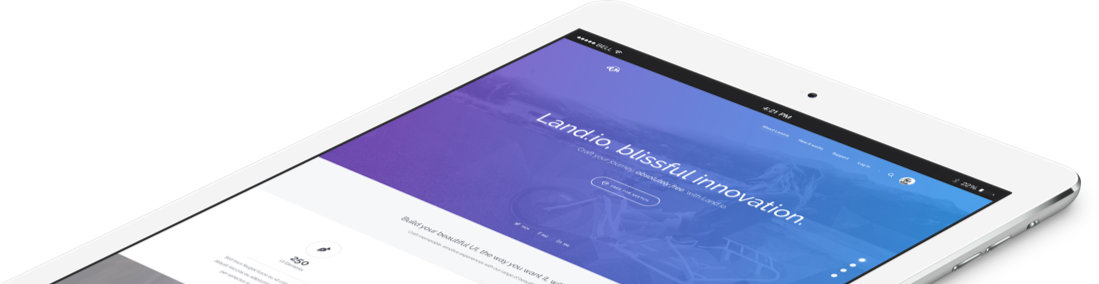
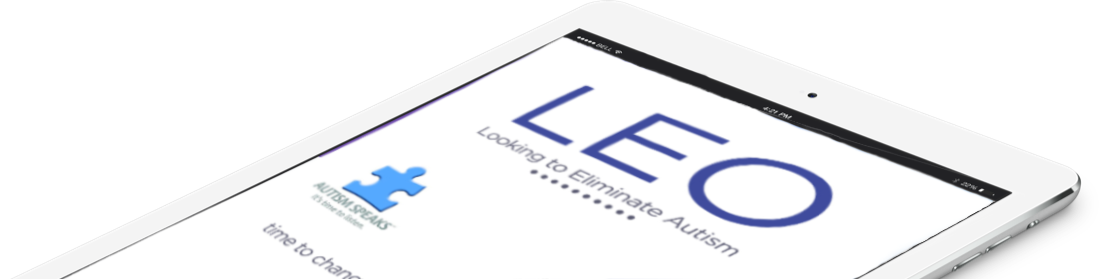
Update Details
Add Icons, Headers etc.
Change CSS & Index

diff --git a/index.html b/index.html
@@ -32,16 +32,27 @@
   </head>
 
   <body>
-
+  
+<!--    Add FB SDK -->
+<div id="fb-root"></div>
+<script>(function(d, s, id) {
+  var js, fjs = d.getElementsByTagName(s)[0];
+  if (d.getElementById(id)) return;
+  js = d.createElement(s); js.id = id;
+  js.src = "//connect.facebook.net/en_GB/sdk.js#xfbml=1&version=v2.8";
+  fjs.parentNode.insertBefore(js, fjs);
+}(document, 'script', 'facebook-jssdk'));</script>
+   
     <!-- Navigation
     ================================================== -->
 
+   
     <nav class="navbar navbar-dark bg-inverse bg-inverse-custom navbar-fixed-top">
       <div class="container">
-        <a class="navbar-brand" href="inde">
-          <span class="icon-logo"><a href="index.html" target="_self"><img src="img/favicon/android-chrome-96.png" alt="Pegasus Logo"/></a></span>
-          <span class="sr-only">LEO.io</span>
-        </a>
+        <a class="navbar-brand" href="index.html" target="_self">
+         <img src="img/favicon/android-chrome-72.png" alt="Pegasus Logo"/></a>
+          <span class="sr-only">LEO</span>
+        
         <a class="navbar-toggler hidden-md-up pull-xs-right" data-toggle="collapse" href="#collapsingNavbar" aria-expanded="false" aria-controls="collapsingNavbar">
         &#9776;
       </a>
@@ -54,7 +65,10 @@
 				<a class="nav-link" href="./index-carousel.html"><small>ORDER</small> <b>Now</b><span class="sr-only">(current)</span></a>
             </li>
             <li class="nav-item nav-item-toggable">
-              <a class="nav-link" href="ui-elements.html">Sign Up</a>
+              <a class="nav-link" href="signUp.html">Sign Up</a>
+            </li>
+            <li class="nav-item nav-item-toggable">
+              <a class="nav-link" href="feedbackForm.html" target="new">Feedback</a>
             </li>
             <li class="nav-item nav-item-toggable">
               <a class="nav-link" href="aboutus.html" target="_blank">About Us</a>
@@ -73,6 +87,7 @@
                 <form class="navbar-form">
                   <input class="form-control navbar-search-input" type="text" placeholder="Type your search &amp; hit Enter&hellip;">
                 </form>
+<!--Drop Down Div-->
               </div>
             </li>
             <li class="nav-item dropdown hidden-sm-down textselect-off">
@@ -136,9 +151,11 @@
 		  <h2 class="m-b-3"><b>L</b>ooking to <b>E</b>liminate A<b>(O)</b>tism <br><em>Smart Brain Stimulation</em></h2>
         <a class="btn btn-secondary-outline m-b-1" href="stock.html" role="button"><span class="icon-sketch"></span>Order Now</a>
         <ul class="nav nav-inline social-share">
-<!--          <li class="nav-item"><a class="nav-link" href="#"><span class="icon-twitter"></span> 1024</a></li>-->
-          <li class="nav-item"><a class="nav-link" href="https://www.facebook.com/teampegasusiit"><span class="icon-facebook"></span> 562</a></li>
-<!--          <li class="nav-item"><a class="nav-link" href="#"><span class="icon-linkedin"></span> 356</a></li>-->
+			<li class="nav-item"><a class="nav-link" href="https://www.facebook.com/teampegasusiit" target="new" ><span class="icon-facebook" lang="en" data-action="like" data-show-faces="false" data-share="false"></span></a></li>
+         <li class="nav-item"><a class="nav-link" href="mailto:teampegasusiit@gmail.com"><span class="icon-email"></span></a></li>
+          
+<!--    <div class="fb-like" data-href="https://www.facebook.com/teampegasusiit" data-layout="button_count" data-action="like" data-show-faces="true" data-share="false"></div>      -->
+          
         </ul>
       </div>
     </header>
@@ -164,9 +181,9 @@
             <div class="card">
               <div class="card-block">
                 <span class="icon-pen display-1"></span>
-                <h4 class="card-title">250</h4>
-                <h6 class="card-subtitle text-muted">UI Elements</h6>
-                <p class="card-text">Sed risus feugiat fusce eu sit conubia venenatis aliquet nisl cras eu adipiscing ac cras at sem cras per senectus eu parturient quam.</p>
+                <h4 class="card-title">Play</h4>
+                <h6 class="card-subtitle text-muted">Simple RC car</h6>
+                <p class="card-text">All time favourites RC cars on a new ambition. Let you children enjoy their childhood.</p>
               </div>
             </div>
           </div>
@@ -174,9 +191,9 @@
             <div class="card">
               <div class="card-block">
                 <span class="icon-thunderbolt display-1"></span>
-                <h4 class="card-title">Ultra</h4>
-                <h6 class="card-subtitle text-muted">Modern design</h6>
-                <p class="card-text">Sed risus feugiat fusce eu sit conubia venenatis aliquet nisl cras eu adipiscing ac cras at sem cras per senectus eu parturient quam.</p>
+                <h4 class="card-title">Learn</h4>
+                <h6 class="card-subtitle text-muted">Visual + Verbal Brain Stimulation</h6>
+                <p class="card-text">LEO's scientific background is based on a highly effective therapy module which therapists used for many years to stimulate patient’s mind verbally and visually at the same time, to provide the 'fun factors' in their childhood activities, whilst helping the affected children to enhance on their memory.</p>
               </div>
             </div>
           </div>
@@ -184,9 +201,9 @@
             <div class="card m-b-0">
               <div class="card-block">
                 <span class="icon-heart display-1"></span>
-                <h4 class="card-title">Free</h4>
-                <h6 class="card-subtitle text-muted">Forever and ever</h6>
-                <p class="card-text">Sed risus feugiat fusce eu sit conubia venenatis aliquet nisl cras eu adipiscing ac cras at sem cras per senectus eu parturient quam.</p>
+                <h4 class="card-title">Track</h4>
+                <h6 class="card-subtitle text-muted">Progress Track</h6>
+                <p class="card-text">Parents can track the progress of their children with Super User function.</p>
               </div>
             </div>
           </div>
@@ -211,36 +228,37 @@
 
     <section class="section-pricing bg-faded text-xs-center">
       <div class="container">
-        <h3>Manage your subscriptions</h3>
+        <h3>Manage your subscriptions for pre-orders</h3>
         <div class="row p-y-3">
           <div class="col-md-4 p-t-md wp wp-5">
             <div class="card pricing-box">
               <div class="card-header text-uppercase">
-                Personal
+                Junior
               </div>
               <div class="card-block">
-                <p class="card-title">Sed risus feugiat fusce eu sit conubia venenatis aliquet nisl cras.</p>
+                <p class="card-title">For beginners with least capability to remember items</p>
                 <h4 class="card-text">
                   <sup class="pricing-box-currency">$</sup>
-                  <span class="pricing-box-price">19</span>
+                  <span class="pricing-box-price">15</span>
                   <small class="text-muted text-uppercase">/month</small>
                 </h4>
               </div>
               <ul class="list-group list-group-flush p-x">
-                <li class="list-group-item">Sed risus feugiat</li>
-                <li class="list-group-item">Sed risus feugiat fusce eu sit</li>
-                <li class="list-group-item">Sed risus feugiat fusce</li>
+                <li class="list-group-item"><strong>*05</strong> Predefined tags</li>
+                <li class="list-group-item"><strong>*06</strong> months service feedback</li>
+                <li class="list-group-item"><i>* Exclude cloud storage</i></li>
               </ul>
+				<!--TODO - add link to button-->
               <a href="#" class="btn btn-primary-outline">Get Started</a>
             </div>
           </div>
           <div class="col-md-4 stacking-top">
             <div class="card pricing-box pricing-best p-x-0">
               <div class="card-header text-uppercase">
-                Professional
+                GENIUS
               </div>
               <div class="card-block">
-                <p class="card-title">Sed risus feugiat fusce eu sit conubia venenatis aliquet nisl cras.</p>
+                <p class="card-title">For explorers who wants to discover the World</p>
                 <h4 class="card-text">
                   <sup class="pricing-box-currency">$</sup>
                   <span class="pricing-box-price">49</span>
@@ -248,31 +266,33 @@
                 </h4>
               </div>
               <ul class="list-group list-group-flush p-x">
-                <li class="list-group-item">Sed risus feugiat</li>
-                <li class="list-group-item">Sed risus feugiat fusce eu sit</li>
-                <li class="list-group-item">Sed risus feugiat fusce</li>
-                <li class="list-group-item">Sed risus feugiat</li>
+                <li class="list-group-item"><strong>*20</strong> Predefined tags</li>
+                <li class="list-group-item"><strong>*12</strong> months service feedback</li>
+                <li class="list-group-item">*Customizable Toy Designs.</li>
+                <li class="list-group-item"><strong>*500MB</strong> free cloud space</li>
               </ul>
+				<!-- TODO = add link to the button-->
               <a href="#" class="btn btn-primary">Get Started</a>
             </div>
           </div>
           <div class="col-md-4 p-t-md wp wp-6">
             <div class="card pricing-box">
               <div class="card-header text-uppercase">
-                Enterprise
+                Thinker
               </div>
               <div class="card-block">
-                <p class="card-title">Sed risus feugiat fusce eu sit conubia venenatis aliquet nisl cras.</p>
+                <p class="card-title">For intermediate kids with capability to talk</p>
                 <h4 class="card-text">
                   <sup class="pricing-box-currency">$</sup>
-                  <span class="pricing-box-price">99</span>
+                  <span class="pricing-box-price">29</span>
                   <small class="text-muted text-uppercase">/month</small>
                 </h4>
               </div>
               <ul class="list-group list-group-flush p-x">
-                <li class="list-group-item">Sed risus feugiat</li>
-                <li class="list-group-item">Sed risus feugiat fusce eu sit</li>
-                <li class="list-group-item">Sed risus feugiat fusce</li>
+                <li class="list-group-item"><strong>*12</strong> Predefined tags.</li>
+                <li class="list-group-item"><strong>*10</strong> months service feedback.</li>
+                <li class="list-group-item">*Customizable Toy Designs</li>
+                <li class="list-group-item"><i>* Exclude cloud storage</i></li>
               </ul>
               <a href="#" class="btn btn-primary-outline">Get Started</a>
             </div>
@@ -452,8 +472,8 @@
                 <span class="media-object icon-logo display-1"></span>
               </div>
               <small class="media-body media-bottom">
-                &copy; Land.io 2015. <br>
-                Designed by Peter Finlan, developed by Taty Grassini, exclusively for Codrops.
+                &copy; Team Pegasus 2017 <br>
+                Designed & developed by P iumal Kulasekara
               </small>
             </div>
           </div>

diff --git a/css/landio.css b/css/landio.css
@@ -6,7 +6,8 @@
     Author:     Taty Grassini @tatygrassini
     Author URI: http://tatygrassini.github.io/
 
------------------------------------------------------------------------------------*/@import url("https://fonts.googleapis.com/css?family=Raleway:400,600,500,300,700|Lato:400,700");
+-----------------------------------------------------------------------------------*/
+@import url("https://fonts.googleapis.com/css?family=Raleway:400,600,500,300,700|Lato:400,700");
 @font-face {
 	font-family: 'icomoon';
 	src: url("fonts/icomoon.eot?-fnljg0");
@@ -73,8 +74,10 @@
 .icon-google:before {
 	content: "\e606"
 }
+
 .icon-heart:before {
-	content: "\e607"
+	content: url("../img/Graph-Magnifier-icon-80x80.png")
+/*	content: "\e607"*/
 }
 .icon-linkedin:before {
 	content: "\e608"
@@ -86,13 +89,15 @@
 	background-image: url(../img/favicon/android-chrome-72.png);
 }
 .icon-pen:before {
-	content: "\e60b"
+	content: url("../img/Play-Games-icon-75x75.png")
+/*	content: "\e60b"*/
 }
 .icon-tag:before {
 	content: "\e60c"
 }
 .icon-thunderbolt:before {
-	content: "\e60d"
+	content: url("../img/books-icon-80x80.png")
+/*	content: "\e60d"*/
 }
 .icon-time:before {
 	content: "\e60e"

diff --git a/feedbackForm.html b/feedbackForm.html
@@ -1,0 +1,10 @@
+<!doctype html>
+<html>
+<head>
+<meta charset="utf-8">
+<title>Untitled Document</title>
+</head>
+
+<body>
+</body>
+</html>

diff --git a/signUp.html b/signUp.html
@@ -1,0 +1,10 @@
+<!doctype html>
+<html>
+<head>
+<meta charset="utf-8">
+<title>Untitled Document</title>
+</head>
+
+<body>
+</body>
+</html>
